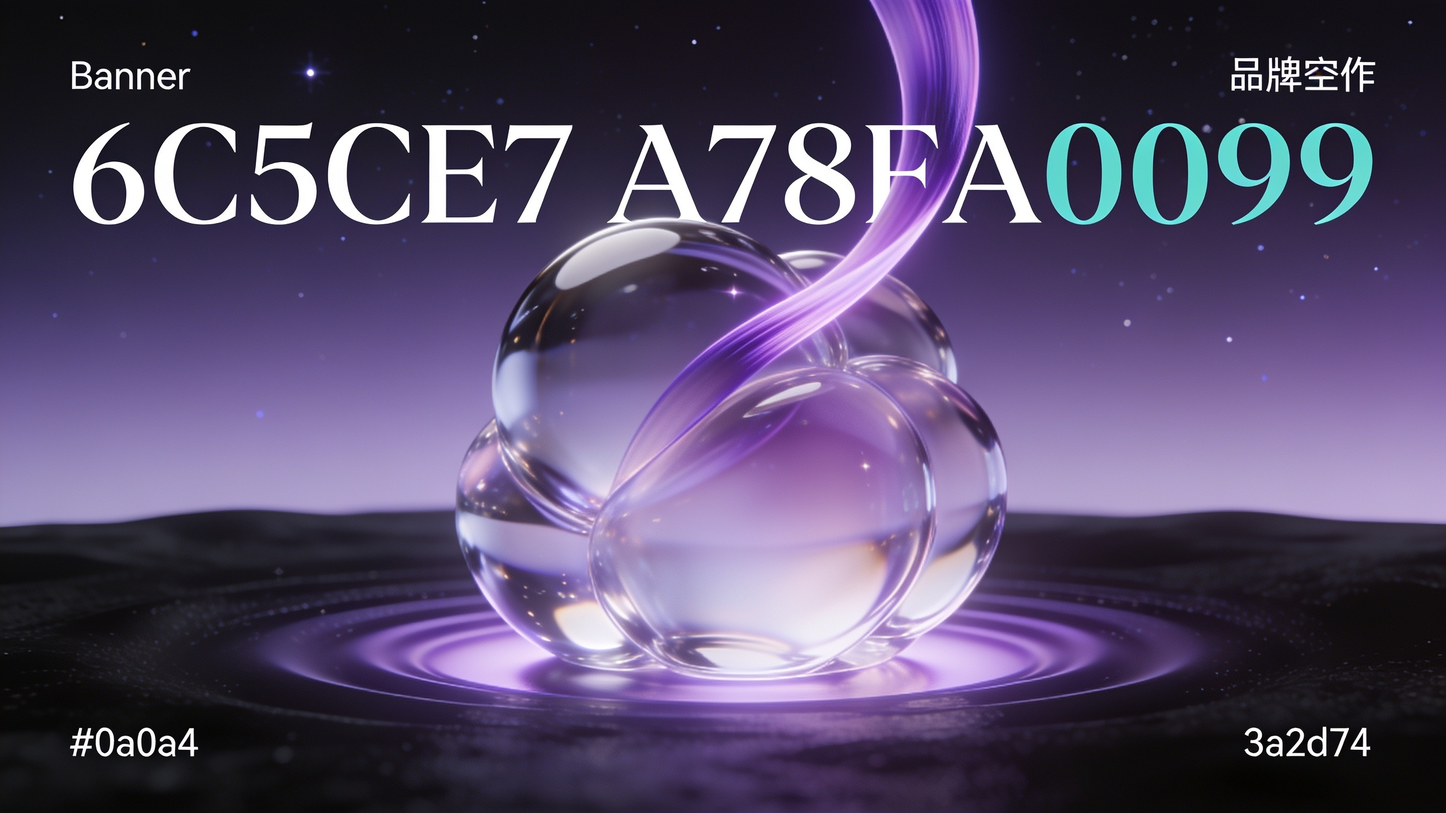
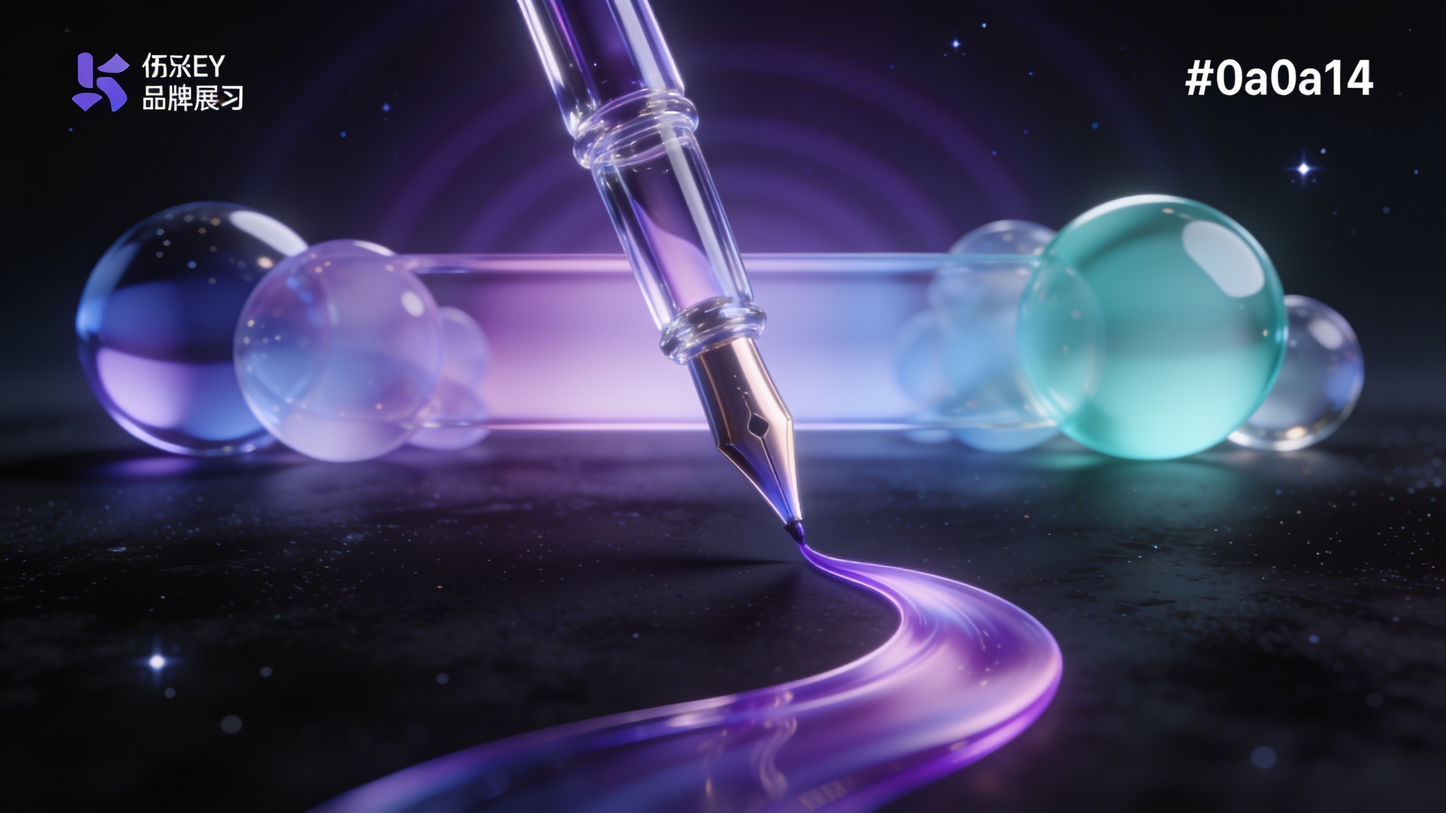
feat(onboarding): context-specific header images, no text overlay (#80)
Igor: the headers looked too same-y and don't need text on every one (the style
is good). Regenerated all 10 images to be distinct per step — a different central
glass object each (name-badge, toggle sliders, shield, scattered platform tiles,
resume sheet, magnifier scan, writing pen + ink ribbon, gift plan, browser +
puzzle, droplet with a success burst). Dropped the message overlay — the step's
own title carries the words; the image alone sets the mood. Full-bleed kept.

diff --git a/components/onboarding/StepHeader.tsx b/components/onboarding/StepHeader.tsx
@@ -1,29 +1,11 @@
-// Premium per-step header for the onboarding quiz: a brand glass/space PHOTO
-// (generated, public/onboarding/step-N.jpg) filling a banner, with a soft left
-// scrim and one short message overlaid in Space Grotesk — so the person instantly
-// gets what the step is for. No icons. Text is CSS (crisp + editable), never baked
-// into the image.
-
-const MSG: Record<number, string> = {
-  1: "The basics we'll put on every application.",
-  2: "What you're after — so we match the right roles.",
-  3: "How HireDrop applies without risking your account.",
-  4: "Where HireDrop should apply for you.",
-  5: "Your resume — we tailor a fresh one for every role.",
-  6: "A quick check so it gets past the filters.",
-  7: "Your voice — so cover letters sound like you.",
-  8: "Start free — 40 applications, no card.",
-  9: "The piece that actually applies — right from your browser.",
-  10: "You're set — here's what happens next.",
-};
-
+// Per-step header for the onboarding quiz: a context-specific brand glass/space
+// PHOTO (public/onboarding/step-N.jpg) filling the card edge-to-edge. No text —
+// the step's own title/form sits below; the image alone sets the mood. Full-bleed,
+// scaled a touch, with a faint bottom fade so it grounds into the white content.
 export default function StepHeader({ step }: { step: number }) {
-  const msg = MSG[step];
-  if (!msg) return null;
-  // Full-bleed image: fills the card's width edge-to-edge (the card's rounded
-  // overflow-hidden clips the top corners). No border/rounding/margin here.
+  if (step < 1 || step > 10) return null;
   return (
-    <div className="relative w-full h-44 sm:h-52 overflow-hidden">
+    <div className="relative w-full h-40 sm:h-48 overflow-hidden">
       {/* eslint-disable-next-line @next/next/no-img-element */}
       <img
         src={`/onboarding/step-${step}.jpg`}
@@ -32,22 +14,11 @@ export default function StepHeader({ step }: { step: number }) {
         className="absolute inset-0 w-full h-full object-cover"
         style={{ transform: "scale(1.12)" }}
       />
-      {/* left scrim for legibility — no bottom line, image bleeds clean to the edges */}
       <div
-        className="absolute inset-0"
-        style={{
-          background:
-            "linear-gradient(90deg, rgba(9,9,18,0.86) 0%, rgba(9,9,18,0.45) 48%, rgba(9,9,18,0.05) 100%)",
-        }}
+        aria-hidden
+        className="absolute inset-x-0 bottom-0 h-16"
+        style={{ background: "linear-gradient(to top, rgba(9,9,18,0.28), transparent)" }}
       />
-      <div className="relative h-full flex items-end p-6 sm:p-7">
-        <p
-          className="text-white text-xl sm:text-2xl font-semibold leading-snug max-w-md"
-          style={{ fontFamily: "'Space Grotesk', 'Inter', sans-serif", textShadow: "0 2px 16px rgba(0,0,0,0.6)" }}
-        >
-          {msg}
-        </p>
-      </div>
     </div>
   );
 }
